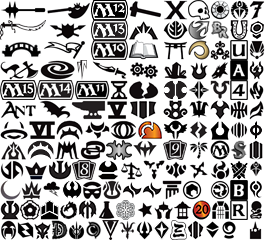
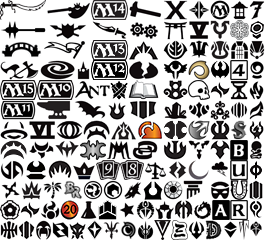
added Magic Origins

diff --git a/css/sets.min.css b/css/sets.min.css
@@ -1,1 +1,1 @@
-.icon-sets{display:inline-block;vertical-align:middle;background-image:url(../images/sets.png);background-repeat:no-repeat}.icon-sets.icon-sets-10E{background-position:-163px 0;width:25px;height:20px}.icon-sets.icon-sets-1E{background-position:-230px -60px;width:18px;height:20px}.icon-sets.icon-sets-2E{background-position:-230px -180px;width:18px;height:20px}.icon-sets.icon-sets-2U{background-position:-230px -40px;width:18px;height:20px}.icon-sets.icon-sets-3E{background-position:-230px -200px;width:18px;height:20px}.icon-sets.icon-sets-4E{background-position:-230px -80px;width:18px;height:20px}.icon-sets.icon-sets-5DN{background-position:-154px -200px;width:19px;height:20px}.icon-sets.icon-sets-5E{background-position:-106px -100px;width:22px;height:20px}.icon-sets.icon-sets-6E{background-position:-28px -120px;width:28px;height:20px}.icon-sets.icon-sets-7E{background-position:-249px 0;width:16px;height:20px}.icon-sets.icon-sets-8ED{background-position:-72px -160px;width:24px;height:20px}.icon-sets.icon-sets-9ED{background-position:-163px -140px;width:24px;height:20px}.icon-sets.icon-sets-AL{background-position:-43px -40px;width:43px;height:20px}.icon-sets.icon-sets-ALA{background-position:-230px -120px;width:18px;height:20px}.icon-sets.icon-sets-AN{background-position:0 -20px;width:46px;height:20px}.icon-sets.icon-sets-AP{background-position:0 -220px;width:17px;height:20px}.icon-sets.icon-sets-AQ{background-position:-71px -100px;width:35px;height:20px}.icon-sets.icon-sets-ARB{background-position:-230px -100px;width:18px;height:20px}.icon-sets.icon-sets-ARC{background-position:-136px -220px;width:17px;height:20px}.icon-sets.icon-sets-AT{background-position:0 -100px;width:36px;height:20px}.icon-sets.icon-sets-AVR{background-position:-210px -80px;width:20px;height:20px}.icon-sets.icon-sets-BD{background-position:0 0;width:46px;height:20px}.icon-sets.icon-sets-BNG{background-position:-188px -60px;width:22px;height:20px}.icon-sets.icon-sets-BOK{background-position:-188px -160px;width:21px;height:20px}.icon-sets.icon-sets-BR{background-position:-210px -20px;width:20px;height:20px}.icon-sets.icon-sets-C13{background-position:-187px -220px;width:17px;height:20px}.icon-sets.icon-sets-C14{background-position:-128px -100px;width:30px;height:20px}.icon-sets.icon-sets-CG{background-position:-97px -200px;width:19px;height:20px}.icon-sets.icon-sets-CH{background-position:-85px -220px;width:17px;height:20px}.icon-sets.icon-sets-CHK{background-position:-163px -40px;width:25px;height:20px}.icon-sets.icon-sets-CM1{background-position:-249px -140px;width:14px;height:20px}.icon-sets.icon-sets-CMD{background-position:-40px -200px;width:19px;height:20px}.icon-sets.icon-sets-CNS{background-position:-249px -20px;width:16px;height:20px}.icon-sets.icon-sets-CON{background-position:-165px -160px;width:22px;height:20px}.icon-sets.icon-sets-CSP{background-position:-77px -60px;width:10px;height:20px}.icon-sets.icon-sets-DD2{background-position:0 -160px;width:24px;height:20px}.icon-sets.icon-sets-DDC{background-position:0 -120px;width:28px;height:20px}.icon-sets.icon-sets-DDD{background-position:-163px -20px;width:25px;height:20px}.icon-sets.icon-sets-DDE{background-position:-230px 0;width:19px;height:20px}.icon-sets.icon-sets-DDF{background-position:-17px -220px;width:17px;height:20px}.icon-sets.icon-sets-DDG{background-position:-62px -180px;width:20px;height:20px}.icon-sets.icon-sets-DDH{background-position:-102px -180px;width:20px;height:20px}.icon-sets.icon-sets-DDI{background-position:-188px -120px;width:21px;height:20px}.icon-sets.icon-sets-DDJ{background-position:-249px -60px;width:15px;height:20px}.icon-sets.icon-sets-DDK{background-position:-119px -220px;width:17px;height:20px}.icon-sets.icon-sets-DDL{background-position:-78px -200px;width:19px;height:20px}.icon-sets.icon-sets-DDM{background-position:-249px -180px;width:14px;height:20px}.icon-sets.icon-sets-DDN{background-position:-163px -120px;width:25px;height:20px}.icon-sets.icon-sets-DDO{background-position:-163px -100px;width:25px;height:20px}.icon-sets.icon-sets-DGM{background-position:0 -140px;width:27px;height:20px}.icon-sets.icon-sets-DIS{background-position:-143px -160px;width:22px;height:20px}.icon-sets.icon-sets-DK{background-position:0 -180px;width:21px;height:20px}.icon-sets.icon-sets-DKA{background-position:-132px -140px;width:26px;height:20px}.icon-sets.icon-sets-DM{background-position:-51px -220px;width:17px;height:20px}.icon-sets.icon-sets-DOTP{background-position:-210px -140px;width:20px;height:20px}.icon-sets.icon-sets-DRB{background-position:-106px -140px;width:26px;height:20px}.icon-sets.icon-sets-DST{background-position:-249px -40px;width:16px;height:20px}.icon-sets.icon-sets-DTK{background-position:-34px -220px;width:17px;height:20px}.icon-sets.icon-sets-EVE{background-position:-83px -120px;width:27px;height:20px}.icon-sets.icon-sets-EVG{background-position:0 -60px;width:39px;height:20px}.icon-sets.icon-sets-EX{background-position:0 -40px;width:43px;height:20px}.icon-sets.icon-sets-FE{background-position:-24px -160px;width:24px;height:20px}.icon-sets.icon-sets-FRF{background-position:-122px -180px;width:20px;height:20px}.icon-sets.icon-sets-FUT{background-position:-110px -120px;width:27px;height:20px}.icon-sets.icon-sets-GPT{background-position:-210px -40px;width:20px;height:20px}.icon-sets.icon-sets-GTC{background-position:-128px -20px;width:31px;height:20px}.icon-sets.icon-sets-GU{background-position:-128px 0;width:35px;height:20px}.icon-sets.icon-sets-H09{background-position:-188px -40px;width:22px;height:20px}.icon-sets.icon-sets-HM{background-position:-210px -180px;width:20px;height:20px}.icon-sets.icon-sets-HOP{background-position:-56px -120px;width:27px;height:20px}.icon-sets.icon-sets-IA{background-position:-116px -200px;width:19px;height:20px}.icon-sets.icon-sets-IN{background-position:-249px -160px;width:14px;height:20px}.icon-sets.icon-sets-ISD{background-position:-188px -100px;width:22px;height:20px}.icon-sets.icon-sets-JOU{background-position:-48px -160px;width:24px;height:20px}.icon-sets.icon-sets-JUD{background-position:-120px -160px;width:23px;height:20px}.icon-sets.icon-sets-KTK{background-position:-230px -160px;width:18px;height:20px}.icon-sets.icon-sets-LE{background-position:-162px -180px;width:20px;height:20px}.icon-sets.icon-sets-LGN{background-position:-46px -20px;width:44px;height:20px}.icon-sets.icon-sets-LRW{background-position:-249px -100px;width:15px;height:20px}.icon-sets.icon-sets-M10{background-position:-91px -40px;width:37px;height:20px}.icon-sets.icon-sets-M11{background-position:-74px -80px;width:36px;height:20px}.icon-sets.icon-sets-M12{background-position:-91px 0;width:37px;height:20px}.icon-sets.icon-sets-M13{background-position:-91px -20px;width:37px;height:20px}.icon-sets.icon-sets-M14{background-position:-37px -80px;width:37px;height:20px}.icon-sets.icon-sets-M15{background-position:0 -80px;width:37px;height:20px}.icon-sets.icon-sets-MBS{background-position:-68px -220px;width:17px;height:20px}.icon-sets.icon-sets-MD1{background-position:-210px -100px;width:20px;height:20px}.icon-sets.icon-sets-MI{background-position:-188px -140px;width:21px;height:20px}.icon-sets.icon-sets-MM{background-position:-82px -180px;width:20px;height:20px}.icon-sets.icon-sets-MM2{background-position:-163px -80px;width:25px;height:20px}.icon-sets.icon-sets-MMA{background-position:-96px -160px;width:24px;height:20px}.icon-sets.icon-sets-MOR{background-position:-210px -160px;width:20px;height:20px}.icon-sets.icon-sets-MRD{background-position:-91px -60px;width:37px;height:20px}.icon-sets.icon-sets-NE{background-position:-46px 0;width:45px;height:20px}.icon-sets.icon-sets-NPH{background-position:-249px -120px;width:14px;height:20px}.icon-sets.icon-sets-OD{background-position:-249px -200px;width:14px;height:20px}.icon-sets.icon-sets-ONS{background-position:-54px -140px;width:26px;height:20px}.icon-sets.icon-sets-P2{background-position:-20px -200px;width:20px;height:20px}.icon-sets.icon-sets-P3{background-position:-135px -200px;width:19px;height:20px}.icon-sets.icon-sets-P4{background-position:-230px -140px;width:18px;height:20px}.icon-sets.icon-sets-PC2{background-position:-27px -140px;width:27px;height:20px}.icon-sets.icon-sets-PD2{background-position:-249px -80px;width:15px;height:20px}.icon-sets.icon-sets-PD3{background-position:-188px 0;width:22px;height:20px}.icon-sets.icon-sets-PK{background-position:-170px -220px;width:17px;height:20px}.icon-sets.icon-sets-PLC{background-position:-80px -140px;width:26px;height:20px}.icon-sets.icon-sets-PO{background-position:-210px 0;width:20px;height:20px}.icon-sets.icon-sets-PR{background-position:-163px -60px;width:25px;height:20px}.icon-sets.icon-sets-PS{background-position:-39px -60px;width:38px;height:20px}.icon-sets.icon-sets-RAV{background-position:-249px -220px;width:13px;height:20px}.icon-sets.icon-sets-ROE{background-position:-188px -80px;width:22px;height:20px}.icon-sets.icon-sets-RTR{background-position:-210px -120px;width:20px;height:20px}.icon-sets.icon-sets-SCG{background-position:-210px -60px;width:20px;height:20px}.icon-sets.icon-sets-SHM{background-position:-36px -100px;width:35px;height:20px}.icon-sets.icon-sets-SOK{background-position:-173px -200px;width:19px;height:20px}.icon-sets.icon-sets-SOM{background-position:-182px -180px;width:20px;height:20px}.icon-sets.icon-sets-ST{background-position:-211px -200px;width:19px;height:20px}.icon-sets.icon-sets-TE{background-position:-42px -180px;width:20px;height:20px}.icon-sets.icon-sets-THS{background-position:0 -200px;width:20px;height:20px}.icon-sets.icon-sets-TOR{background-position:-59px -200px;width:19px;height:20px}.icon-sets.icon-sets-TSP{background-position:-110px -80px;width:18px;height:20px}.icon-sets.icon-sets-UFP{background-position:-142px -180px;width:20px;height:20px}.icon-sets.icon-sets-UG{background-position:-128px -80px;width:31px;height:20px}.icon-sets.icon-sets-UNH{background-position:-230px -20px;width:18px;height:20px}.icon-sets.icon-sets-UZ{background-position:-128px -60px;width:31px;height:20px}.icon-sets.icon-sets-V09{background-position:-188px -20px;width:22px;height:20px}.icon-sets.icon-sets-V10{background-position:-221px -220px;width:16px;height:20px}.icon-sets.icon-sets-V11{background-position:-21px -180px;width:21px;height:20px}.icon-sets.icon-sets-V12{background-position:-137px -120px;width:26px;height:20px}.icon-sets.icon-sets-V13{background-position:-192px -200px;width:19px;height:20px}.icon-sets.icon-sets-VI{background-position:-102px -220px;width:17px;height:20px}.icon-sets.icon-sets-WL{background-position:-128px -40px;width:31px;height:20px}.icon-sets.icon-sets-WWK{background-position:-153px -220px;width:17px;height:20px}.icon-sets.icon-sets-ZEN{background-position:-204px -220px;width:17px;height:20px}
+.icon-sets{display:inline-block;vertical-align:middle;background-image:url(../images/sets.png);background-repeat:no-repeat}.icon-sets.icon-sets-10E{background-position:-163px 0;width:25px;height:20px}.icon-sets.icon-sets-1E{background-position:-212px -200px;width:18px;height:20px}.icon-sets.icon-sets-2E{background-position:-230px -140px;width:18px;height:20px}.icon-sets.icon-sets-2U{background-position:-230px -160px;width:18px;height:20px}.icon-sets.icon-sets-3E{background-position:-230px -200px;width:18px;height:20px}.icon-sets.icon-sets-4E{background-position:-230px -60px;width:18px;height:20px}.icon-sets.icon-sets-5DN{background-position:-155px -200px;width:19px;height:20px}.icon-sets.icon-sets-5E{background-position:-188px -20px;width:22px;height:20px}.icon-sets.icon-sets-6E{background-position:-28px -120px;width:28px;height:20px}.icon-sets.icon-sets-7E{background-position:-249px 0;width:16px;height:20px}.icon-sets.icon-sets-8ED{background-position:-120px -160px;width:24px;height:20px}.icon-sets.icon-sets-9ED{background-position:-96px -160px;width:24px;height:20px}.icon-sets.icon-sets-AL{background-position:-43px -40px;width:43px;height:20px}.icon-sets.icon-sets-ALA{background-position:-230px -100px;width:18px;height:20px}.icon-sets.icon-sets-AN{background-position:0 0;width:46px;height:20px}.icon-sets.icon-sets-AP{background-position:-35px -220px;width:17px;height:20px}.icon-sets.icon-sets-AQ{background-position:-36px -100px;width:35px;height:20px}.icon-sets.icon-sets-ARB{background-position:0 -220px;width:18px;height:20px}.icon-sets.icon-sets-ARC{background-position:-188px -220px;width:17px;height:20px}.icon-sets.icon-sets-AT{background-position:-74px -80px;width:36px;height:20px}.icon-sets.icon-sets-AVR{background-position:-210px -20px;width:20px;height:20px}.icon-sets.icon-sets-BD{background-position:0 -20px;width:46px;height:20px}.icon-sets.icon-sets-BNG{background-position:-106px -100px;width:22px;height:20px}.icon-sets.icon-sets-BOK{background-position:0 -180px;width:21px;height:20px}.icon-sets.icon-sets-BR{background-position:-63px -180px;width:20px;height:20px}.icon-sets.icon-sets-C13{background-position:-18px -220px;width:17px;height:20px}.icon-sets.icon-sets-C14{background-position:-128px -100px;width:30px;height:20px}.icon-sets.icon-sets-CG{background-position:-79px -200px;width:19px;height:20px}.icon-sets.icon-sets-CH{background-position:-120px -220px;width:17px;height:20px}.icon-sets.icon-sets-CHK{background-position:-163px -20px;width:25px;height:20px}.icon-sets.icon-sets-CM1{background-position:-249px -180px;width:14px;height:20px}.icon-sets.icon-sets-CMD{background-position:-98px -200px;width:19px;height:20px}.icon-sets.icon-sets-CNS{background-position:-249px -20px;width:16px;height:20px}.icon-sets.icon-sets-CON{background-position:-188px -100px;width:22px;height:20px}.icon-sets.icon-sets-CSP{background-position:-239px -220px;width:10px;height:20px}.icon-sets.icon-sets-DD2{background-position:0 -160px;width:24px;height:20px}.icon-sets.icon-sets-DDC{background-position:0 -120px;width:28px;height:20px}.icon-sets.icon-sets-DDD{background-position:-163px -40px;width:25px;height:20px}.icon-sets.icon-sets-DDE{background-position:-136px -200px;width:19px;height:20px}.icon-sets.icon-sets-DDF{background-position:-52px -220px;width:17px;height:20px}.icon-sets.icon-sets-DDG{background-position:-210px -60px;width:20px;height:20px}.icon-sets.icon-sets-DDH{background-position:-210px -40px;width:20px;height:20px}.icon-sets.icon-sets-DDI{background-position:-167px -160px;width:21px;height:20px}.icon-sets.icon-sets-DDJ{background-position:-249px -120px;width:15px;height:20px}.icon-sets.icon-sets-DDK{background-position:-103px -220px;width:17px;height:20px}.icon-sets.icon-sets-DDL{background-position:-174px -200px;width:19px;height:20px}.icon-sets.icon-sets-DDM{background-position:-249px -200px;width:14px;height:20px}.icon-sets.icon-sets-DDN{background-position:-163px -60px;width:25px;height:20px}.icon-sets.icon-sets-DDO{background-position:-163px -80px;width:25px;height:20px}.icon-sets.icon-sets-DGM{background-position:-110px -120px;width:27px;height:20px}.icon-sets.icon-sets-DIS{background-position:-188px -140px;width:22px;height:20px}.icon-sets.icon-sets-DK{background-position:-188px -160px;width:21px;height:20px}.icon-sets.icon-sets-DKA{background-position:-54px -140px;width:26px;height:20px}.icon-sets.icon-sets-DM{background-position:-205px -220px;width:17px;height:20px}.icon-sets.icon-sets-DOTP{background-position:-210px 0;width:20px;height:20px}.icon-sets.icon-sets-DRB{background-position:-80px -140px;width:26px;height:20px}.icon-sets.icon-sets-DST{background-position:-249px -40px;width:16px;height:20px}.icon-sets.icon-sets-DTK{background-position:-69px -220px;width:17px;height:20px}.icon-sets.icon-sets-EVE{background-position:-27px -140px;width:27px;height:20px}.icon-sets.icon-sets-EVG{background-position:0 -60px;width:39px;height:20px}.icon-sets.icon-sets-EX{background-position:0 -40px;width:43px;height:20px}.icon-sets.icon-sets-FE{background-position:-72px -160px;width:24px;height:20px}.icon-sets.icon-sets-FRF{background-position:-20px -200px;width:20px;height:20px}.icon-sets.icon-sets-FUT{background-position:-56px -120px;width:27px;height:20px}.icon-sets.icon-sets-GPT{background-position:-210px -100px;width:20px;height:20px}.icon-sets.icon-sets-GTC{background-position:-128px -40px;width:31px;height:20px}.icon-sets.icon-sets-GU{background-position:-128px 0;width:35px;height:20px}.icon-sets.icon-sets-H09{background-position:-188px -60px;width:22px;height:20px}.icon-sets.icon-sets-HM{background-position:-83px -180px;width:20px;height:20px}.icon-sets.icon-sets-HOP{background-position:-83px -120px;width:27px;height:20px}.icon-sets.icon-sets-IA{background-position:-230px -20px;width:19px;height:20px}.icon-sets.icon-sets-IN{background-position:-249px -220px;width:14px;height:20px}.icon-sets.icon-sets-ISD{background-position:-188px -40px;width:22px;height:20px}.icon-sets.icon-sets-JOU{background-position:-163px -140px;width:24px;height:20px}.icon-sets.icon-sets-JUD{background-position:-144px -160px;width:23px;height:20px}.icon-sets.icon-sets-KTK{background-position:-110px -80px;width:18px;height:20px}.icon-sets.icon-sets-LE{background-position:-183px -180px;width:20px;height:20px}.icon-sets.icon-sets-LGN{background-position:-46px -20px;width:44px;height:20px}.icon-sets.icon-sets-LRW{background-position:-249px -100px;width:15px;height:20px}.icon-sets.icon-sets-M10{background-position:-37px -80px;width:37px;height:20px}.icon-sets.icon-sets-M11{background-position:0 -100px;width:36px;height:20px}.icon-sets.icon-sets-M12{background-position:-91px -60px;width:37px;height:20px}.icon-sets.icon-sets-M13{background-position:-91px -40px;width:37px;height:20px}.icon-sets.icon-sets-M14{background-position:-91px 0;width:37px;height:20px}.icon-sets.icon-sets-M15{background-position:0 -80px;width:37px;height:20px}.icon-sets.icon-sets-MBS{background-position:-137px -220px;width:17px;height:20px}.icon-sets.icon-sets-MD1{background-position:-210px -140px;width:20px;height:20px}.icon-sets.icon-sets-MI{background-position:-42px -180px;width:21px;height:20px}.icon-sets.icon-sets-MM{background-position:-210px -180px;width:20px;height:20px}.icon-sets.icon-sets-MM2{background-position:-163px -120px;width:25px;height:20px}.icon-sets.icon-sets-MMA{background-position:-24px -160px;width:24px;height:20px}.icon-sets.icon-sets-MOR{background-position:-40px -200px;width:20px;height:20px}.icon-sets.icon-sets-MRD{background-position:-91px -20px;width:37px;height:20px}.icon-sets.icon-sets-NE{background-position:-46px 0;width:45px;height:20px}.icon-sets.icon-sets-NPH{background-position:-249px -160px;width:14px;height:20px}.icon-sets.icon-sets-OD{background-position:-249px -140px;width:14px;height:20px}.icon-sets.icon-sets-ONS{background-position:-106px -140px;width:26px;height:20px}.icon-sets.icon-sets-ORI{background-position:-48px -160px;width:24px;height:20px}.icon-sets.icon-sets-P2{background-position:0 -200px;width:20px;height:20px}.icon-sets.icon-sets-P3{background-position:-117px -200px;width:19px;height:20px}.icon-sets.icon-sets-P4{background-position:-230px -120px;width:18px;height:20px}.icon-sets.icon-sets-PC2{background-position:0 -140px;width:27px;height:20px}.icon-sets.icon-sets-PD2{background-position:-249px -80px;width:15px;height:20px}.icon-sets.icon-sets-PD3{background-position:-188px -80px;width:22px;height:20px}.icon-sets.icon-sets-PK{background-position:-171px -220px;width:17px;height:20px}.icon-sets.icon-sets-PLC{background-position:-132px -140px;width:26px;height:20px}.icon-sets.icon-sets-PO{background-position:-163px -180px;width:20px;height:20px}.icon-sets.icon-sets-PR{background-position:-163px -100px;width:25px;height:20px}.icon-sets.icon-sets-PS{background-position:-39px -60px;width:38px;height:20px}.icon-sets.icon-sets-RAV{background-position:-77px -60px;width:13px;height:20px}.icon-sets.icon-sets-ROE{background-position:-188px 0;width:22px;height:20px}.icon-sets.icon-sets-RTR{background-position:-143px -180px;width:20px;height:20px}.icon-sets.icon-sets-SCG{background-position:-123px -180px;width:20px;height:20px}.icon-sets.icon-sets-SHM{background-position:-71px -100px;width:35px;height:20px}.icon-sets.icon-sets-SOK{background-position:-230px 0;width:19px;height:20px}.icon-sets.icon-sets-SOM{background-position:-103px -180px;width:20px;height:20px}.icon-sets.icon-sets-ST{background-position:-230px -40px;width:19px;height:20px}.icon-sets.icon-sets-TE{background-position:-210px -160px;width:20px;height:20px}.icon-sets.icon-sets-THS{background-position:-210px -120px;width:20px;height:20px}.icon-sets.icon-sets-TOR{background-position:-193px -200px;width:19px;height:20px}.icon-sets.icon-sets-TSP{background-position:-230px -80px;width:18px;height:20px}.icon-sets.icon-sets-UFP{background-position:-210px -80px;width:20px;height:20px}.icon-sets.icon-sets-UG{background-position:-128px -60px;width:31px;height:20px}.icon-sets.icon-sets-UNH{background-position:-230px -180px;width:18px;height:20px}.icon-sets.icon-sets-UZ{background-position:-128px -20px;width:31px;height:20px}.icon-sets.icon-sets-V09{background-position:-188px -120px;width:22px;height:20px}.icon-sets.icon-sets-V10{background-position:-249px -60px;width:16px;height:20px}.icon-sets.icon-sets-V11{background-position:-21px -180px;width:21px;height:20px}.icon-sets.icon-sets-V12{background-position:-137px -120px;width:26px;height:20px}.icon-sets.icon-sets-V13{background-position:-60px -200px;width:19px;height:20px}.icon-sets.icon-sets-VI{background-position:-154px -220px;width:17px;height:20px}.icon-sets.icon-sets-WL{background-position:-128px -80px;width:31px;height:20px}.icon-sets.icon-sets-WWK{background-position:-86px -220px;width:17px;height:20px}.icon-sets.icon-sets-ZEN{background-position:-222px -220px;width:17px;height:20px}

diff --git a/backend/import.php b/backend/import.php
@@ -31,7 +31,7 @@ if($argv == "sets") {
 // Card texts, translations and printings
 if($argv == "cards") {
   $cards = json_decode(file_get_contents("http://mtgjson.com/json/AllCards-x.json"));
-  echo "loaded ".count($cards)." cards\n";
+  echo "loaded ".count((array) $cards)." cards\n";
 
   foreach($cards as $card) {
     $query = "name='".$db->real_escape_string($card->name)."',";
